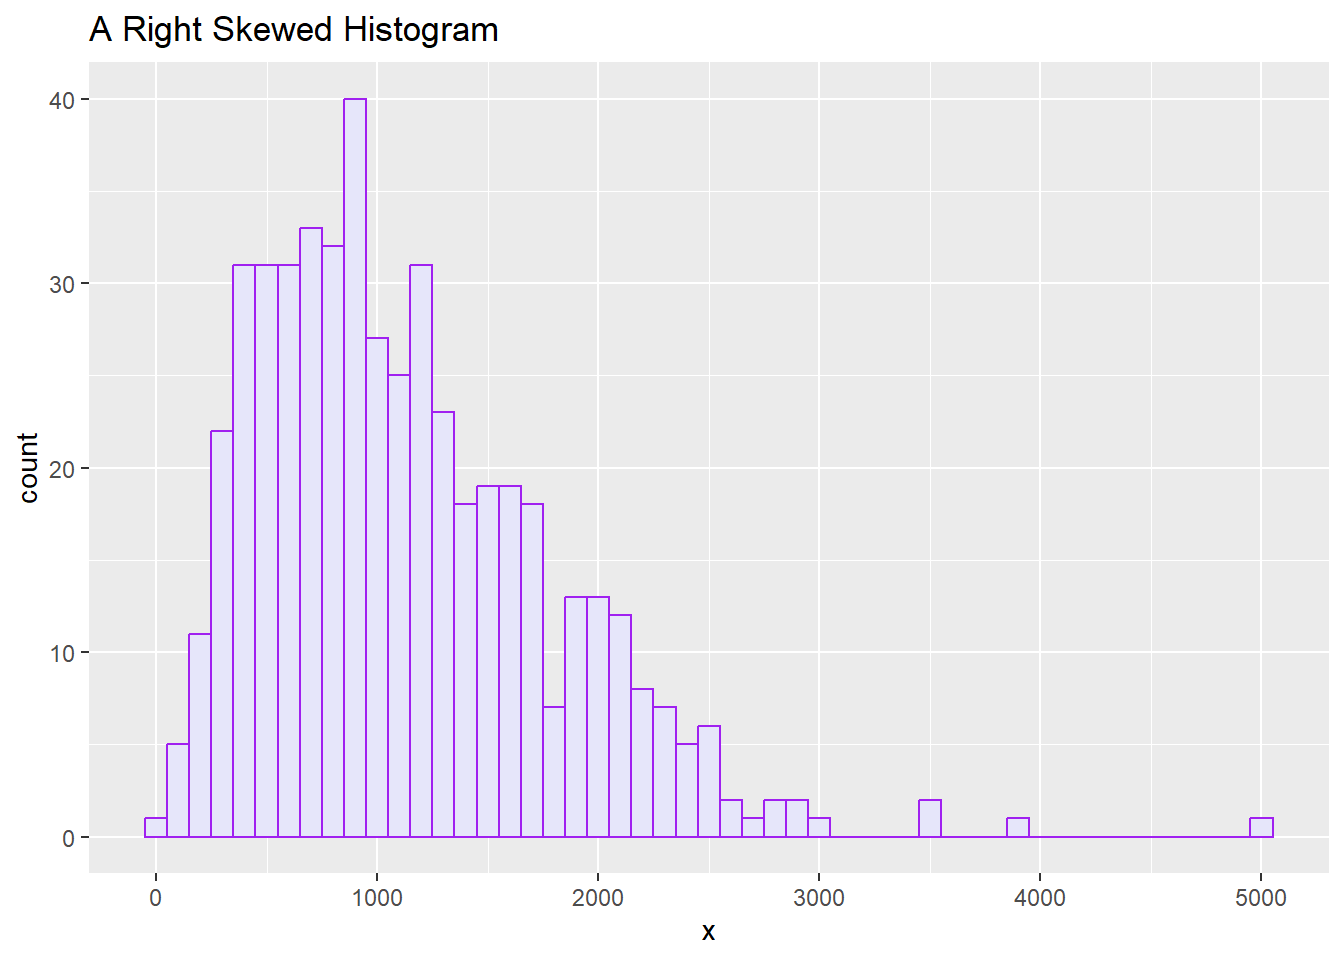
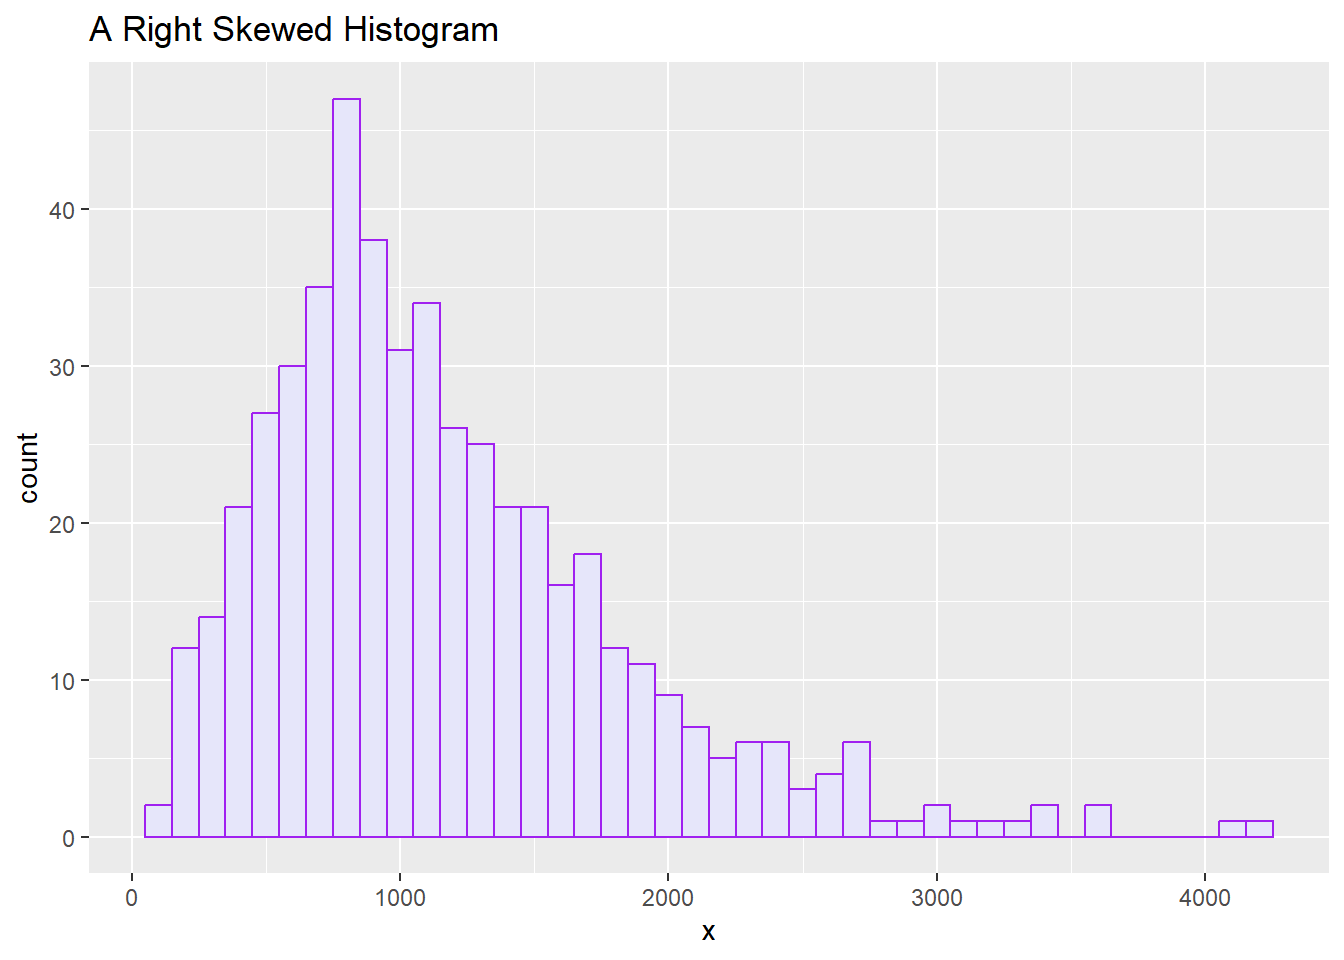
Update

diff --git a/docs/index.html b/docs/index.html
@@ -503,7 +503,7 @@ pre > code.sourceCode > span > a:first-child::before { text-decoration: underlin
   // Set this to your Cloudflare Worker URL after deploying
 
   // ============================================================
-  var CHAT_WORKER_URL = 'https://statchat.pamela-schlosser.workers.dev/';
+  var CHAT_WORKER_URL = 'https://statchat.pamela-schlosser.workers.dev';
   // ============================================================
 
   var chatHistory = [];

diff --git a/docs/module1.html b/docs/module1.html
@@ -504,7 +504,7 @@ pre > code.sourceCode > span > a:first-child::before { text-decoration: underlin
   // Set this to your Cloudflare Worker URL after deploying
 
   // ============================================================
-  var CHAT_WORKER_URL = 'https://statchat.pamela-schlosser.workers.dev/';
+  var CHAT_WORKER_URL = 'https://statchat.pamela-schlosser.workers.dev';
   // ============================================================
 
   var chatHistory = [];

diff --git a/docs/module2.html b/docs/module2.html
@@ -504,7 +504,7 @@ pre > code.sourceCode > span > a:first-child::before { text-decoration: underlin
   // Set this to your Cloudflare Worker URL after deploying
 
   // ============================================================
-  var CHAT_WORKER_URL = 'https://statchat.pamela-schlosser.workers.dev/';
+  var CHAT_WORKER_URL = 'https://statchat.pamela-schlosser.workers.dev';
   // ============================================================
 
   var chatHistory = [];

diff --git a/docs/module3.html b/docs/module3.html
@@ -504,7 +504,7 @@ pre > code.sourceCode > span > a:first-child::before { text-decoration: underlin
   // Set this to your Cloudflare Worker URL after deploying
 
   // ============================================================
-  var CHAT_WORKER_URL = 'https://statchat.pamela-schlosser.workers.dev/';
+  var CHAT_WORKER_URL = 'https://statchat.pamela-schlosser.workers.dev';
   // ============================================================
 
   var chatHistory = [];

diff --git a/docs/module4.html b/docs/module4.html
@@ -504,7 +504,7 @@ pre > code.sourceCode > span > a:first-child::before { text-decoration: underlin
   // Set this to your Cloudflare Worker URL after deploying
 
   // ============================================================
-  var CHAT_WORKER_URL = 'https://statchat.pamela-schlosser.workers.dev/';
+  var CHAT_WORKER_URL = 'https://statchat.pamela-schlosser.workers.dev';
   // ============================================================
 
   var chatHistory = [];

diff --git a/docs/module5.html b/docs/module5.html
@@ -504,7 +504,7 @@ pre > code.sourceCode > span > a:first-child::before { text-decoration: underlin
   // Set this to your Cloudflare Worker URL after deploying
 
   // ============================================================
-  var CHAT_WORKER_URL = 'https://statchat.pamela-schlosser.workers.dev/';
+  var CHAT_WORKER_URL = 'https://statchat.pamela-schlosser.workers.dev';
   // ============================================================
 
   var chatHistory = [];

diff --git a/docs/module6.html b/docs/module6.html
@@ -504,7 +504,7 @@ pre > code.sourceCode > span > a:first-child::before { text-decoration: underlin
   // Set this to your Cloudflare Worker URL after deploying
 
   // ============================================================
-  var CHAT_WORKER_URL = 'https://statchat.pamela-schlosser.workers.dev/';
+  var CHAT_WORKER_URL = 'https://statchat.pamela-schlosser.workers.dev';
   // ============================================================
 
   var chatHistory = [];

diff --git a/docs/module7.html b/docs/module7.html
@@ -504,7 +504,7 @@ pre > code.sourceCode > span > a:first-child::before { text-decoration: underlin
   // Set this to your Cloudflare Worker URL after deploying
 
   // ============================================================
-  var CHAT_WORKER_URL = 'https://statchat.pamela-schlosser.workers.dev/';
+  var CHAT_WORKER_URL = 'https://statchat.pamela-schlosser.workers.dev';
   // ============================================================
 
   var chatHistory = [];

diff --git a/docs/summary.html b/docs/summary.html
@@ -467,7 +467,7 @@ ul.task-list li input[type="checkbox"] {
   // Set this to your Cloudflare Worker URL after deploying
 
   // ============================================================
-  var CHAT_WORKER_URL = 'https://statchat.pamela-schlosser.workers.dev/';
+  var CHAT_WORKER_URL = 'https://statchat.pamela-schlosser.workers.dev';
   // ============================================================
 
   var chatHistory = [];